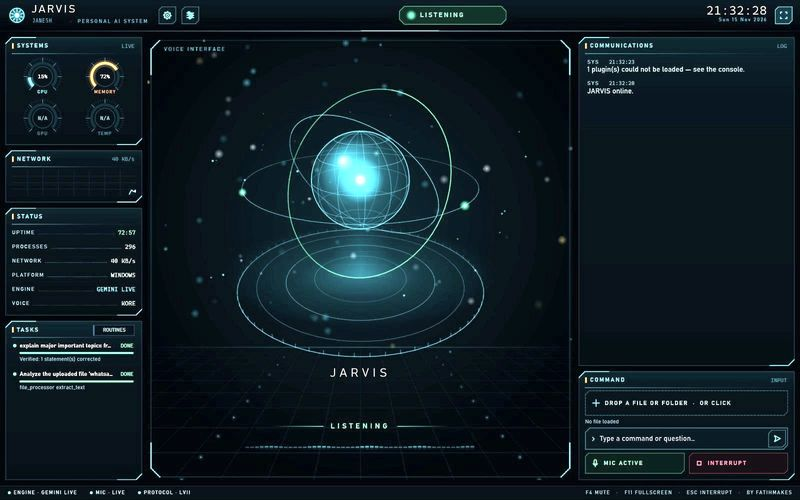
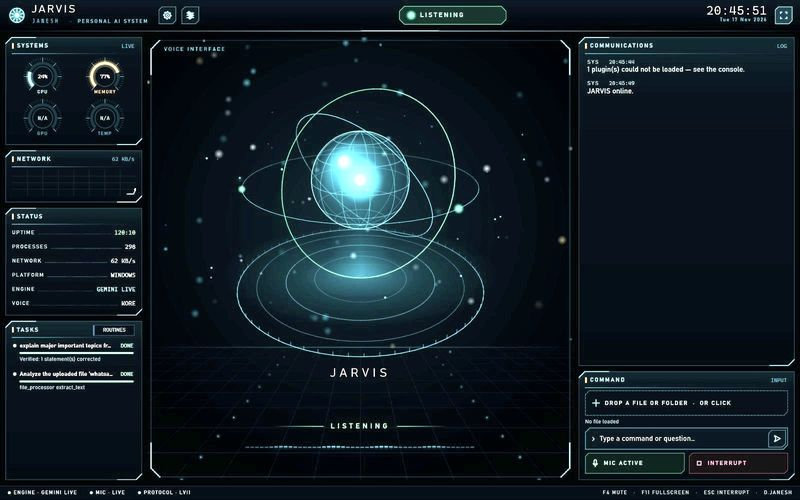
Replace the JARVIS capture with the newer run and record the treatment

diff --git a/DESIGN.md b/DESIGN.md
@@ -314,8 +314,14 @@ text. No coloured chips except the one active-state tag.
 - **Project feature with screens:** a project that carries its own screenshots runs the full width,
   so the images keep their detail, and its spec becomes a four-column strip under the body.
 - **Project screens:** real captures of the owner's own builds, framed by a hairline border and the
-  card radius, each with a caption that says what the screen is. The application's own chrome is
-  cropped off — the site's frame is the frame — and any local path is removed.
+  card radius, described by their alt text rather than by a caption line under the image. The
+  application's own chrome is cropped off — the site's frame is the frame — and any local path is
+  removed.
+- **JARVIS capture:** the open-source interface is used as it is, with the name run in the subtitle
+  redrawn as the owner's own so the screen does not carry another person's name. The capture is
+  graded to the same saturation and lightness as the traffic screens, so the three read as one set.
+  The interface design is credited to the open-source JARVIS project by Fatihmakes in one line in
+  the footer, not under the image.
 - **Project list:** the four AI/ML projects are a ruled list — one row per project, hairline
   between rows, no repeated boxes. This is deliberately not a four-card grid.
 - **Fact table:** the hero's "at a glance" panel is a definition list with hairline row dividers.
